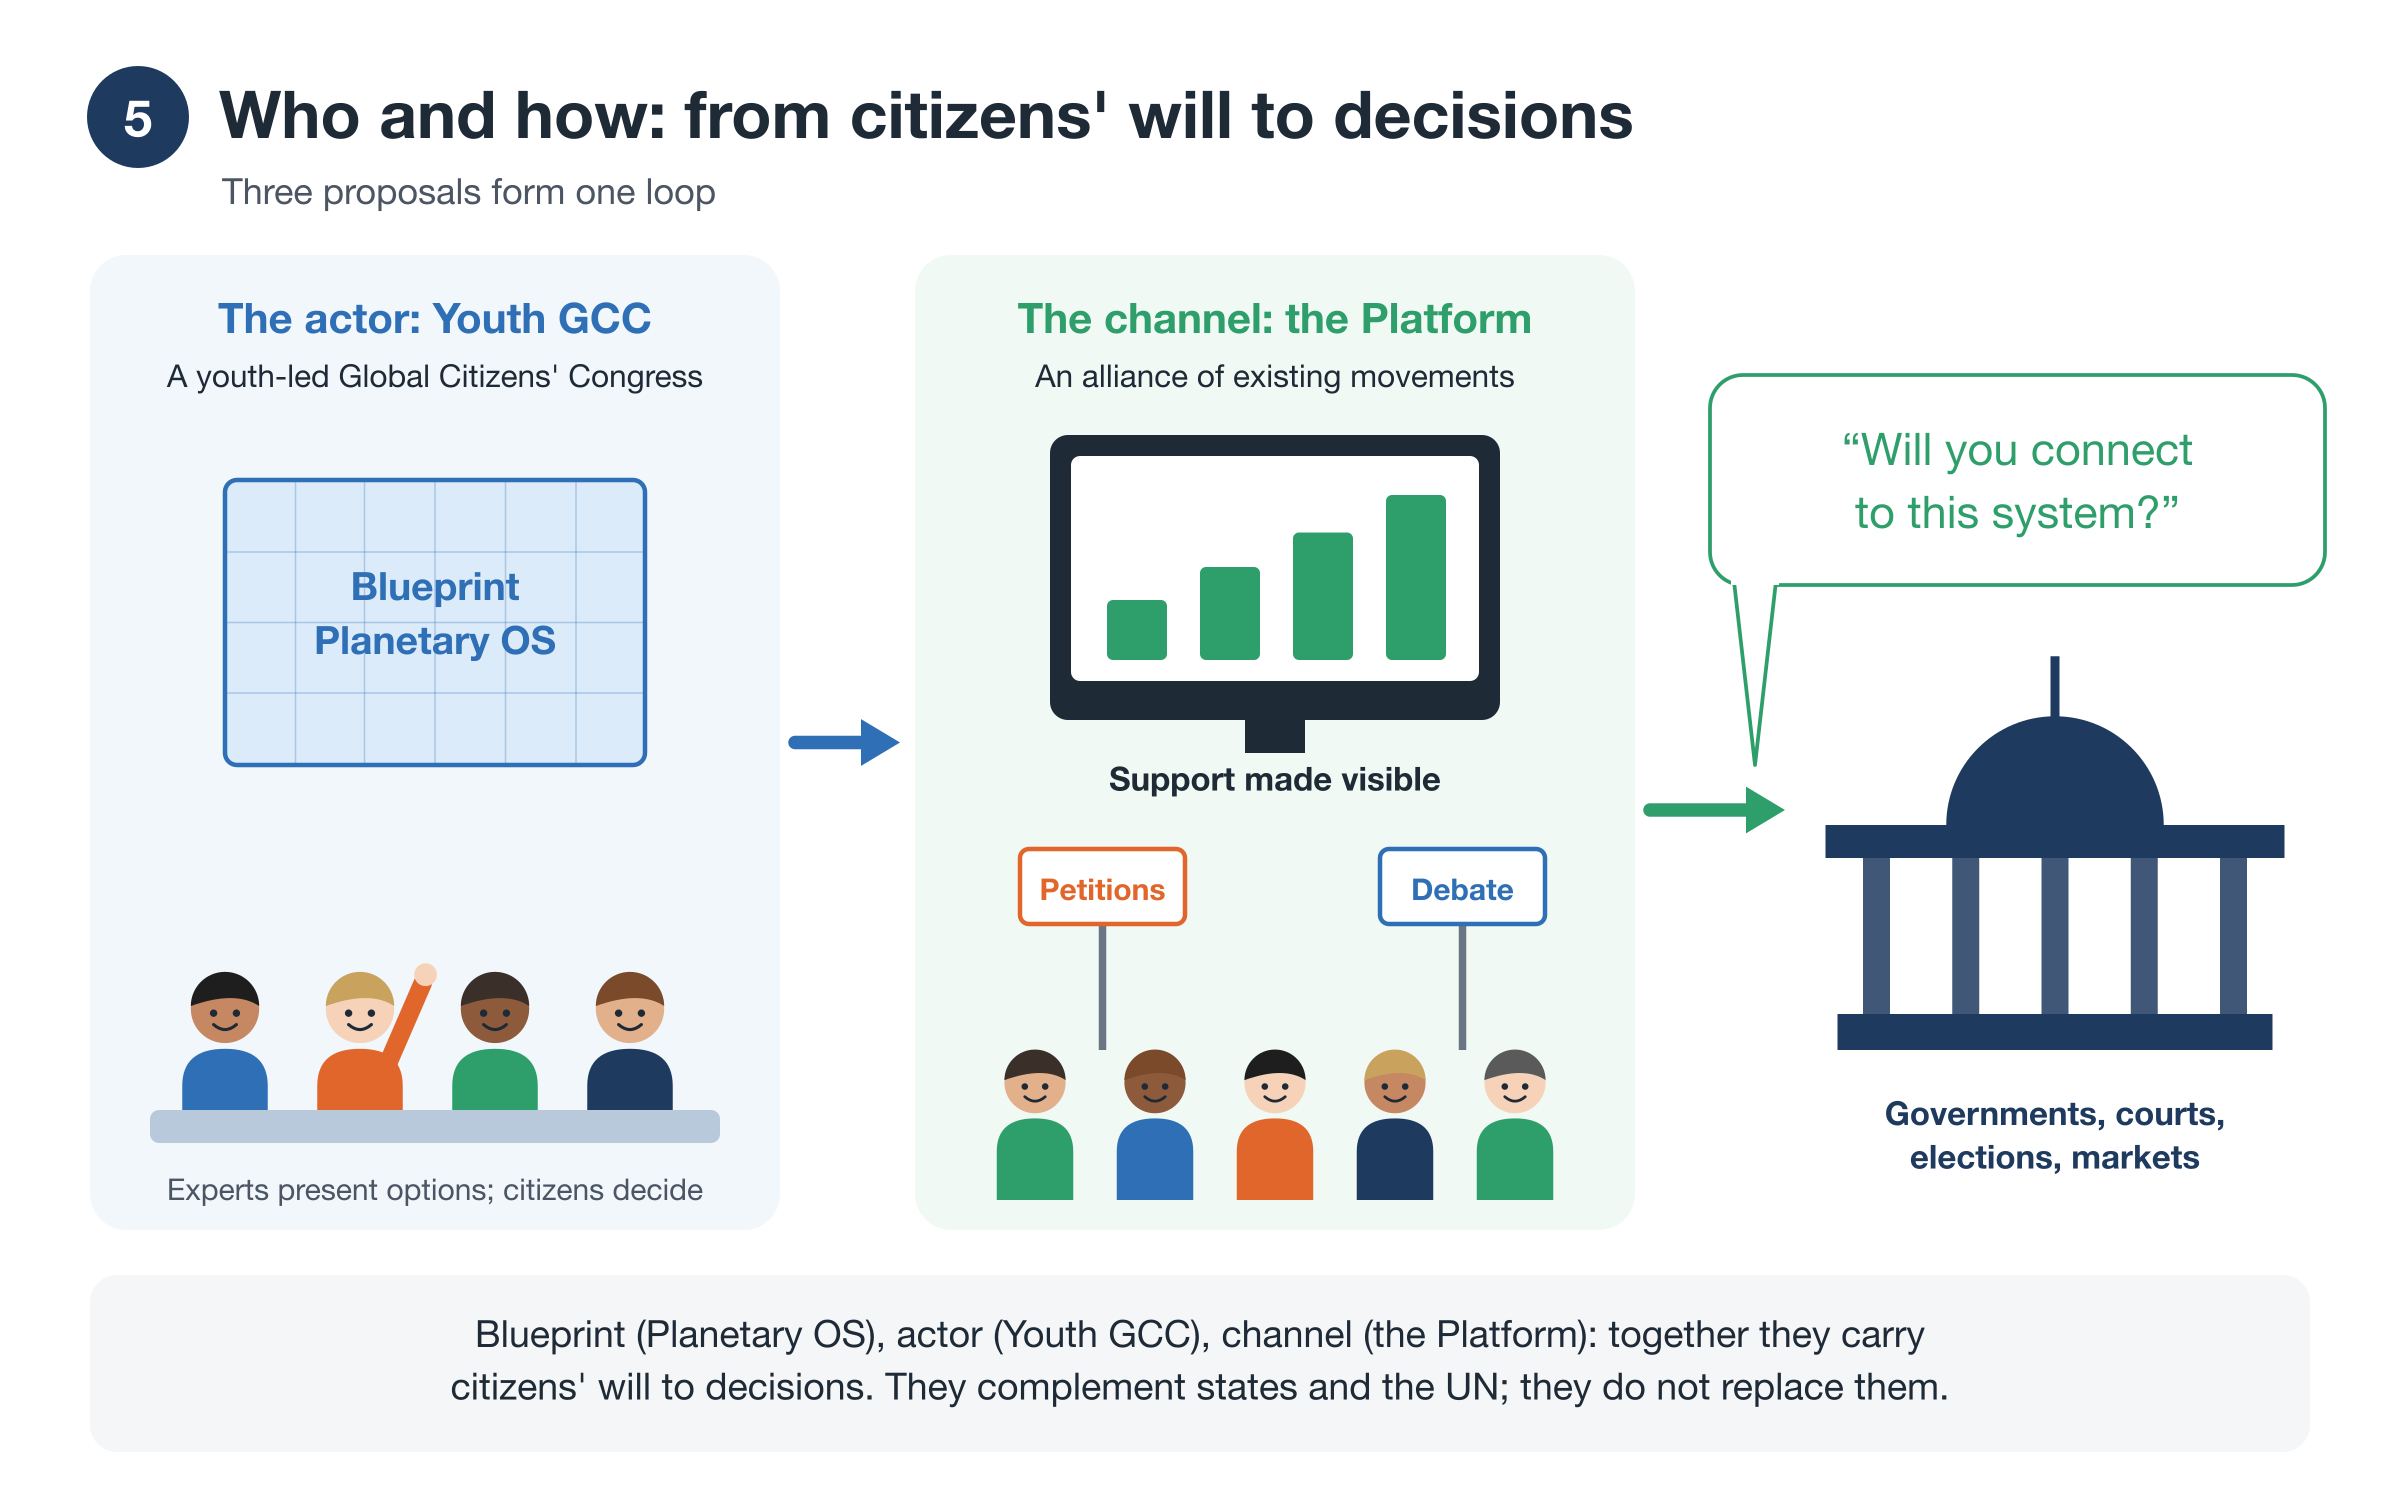
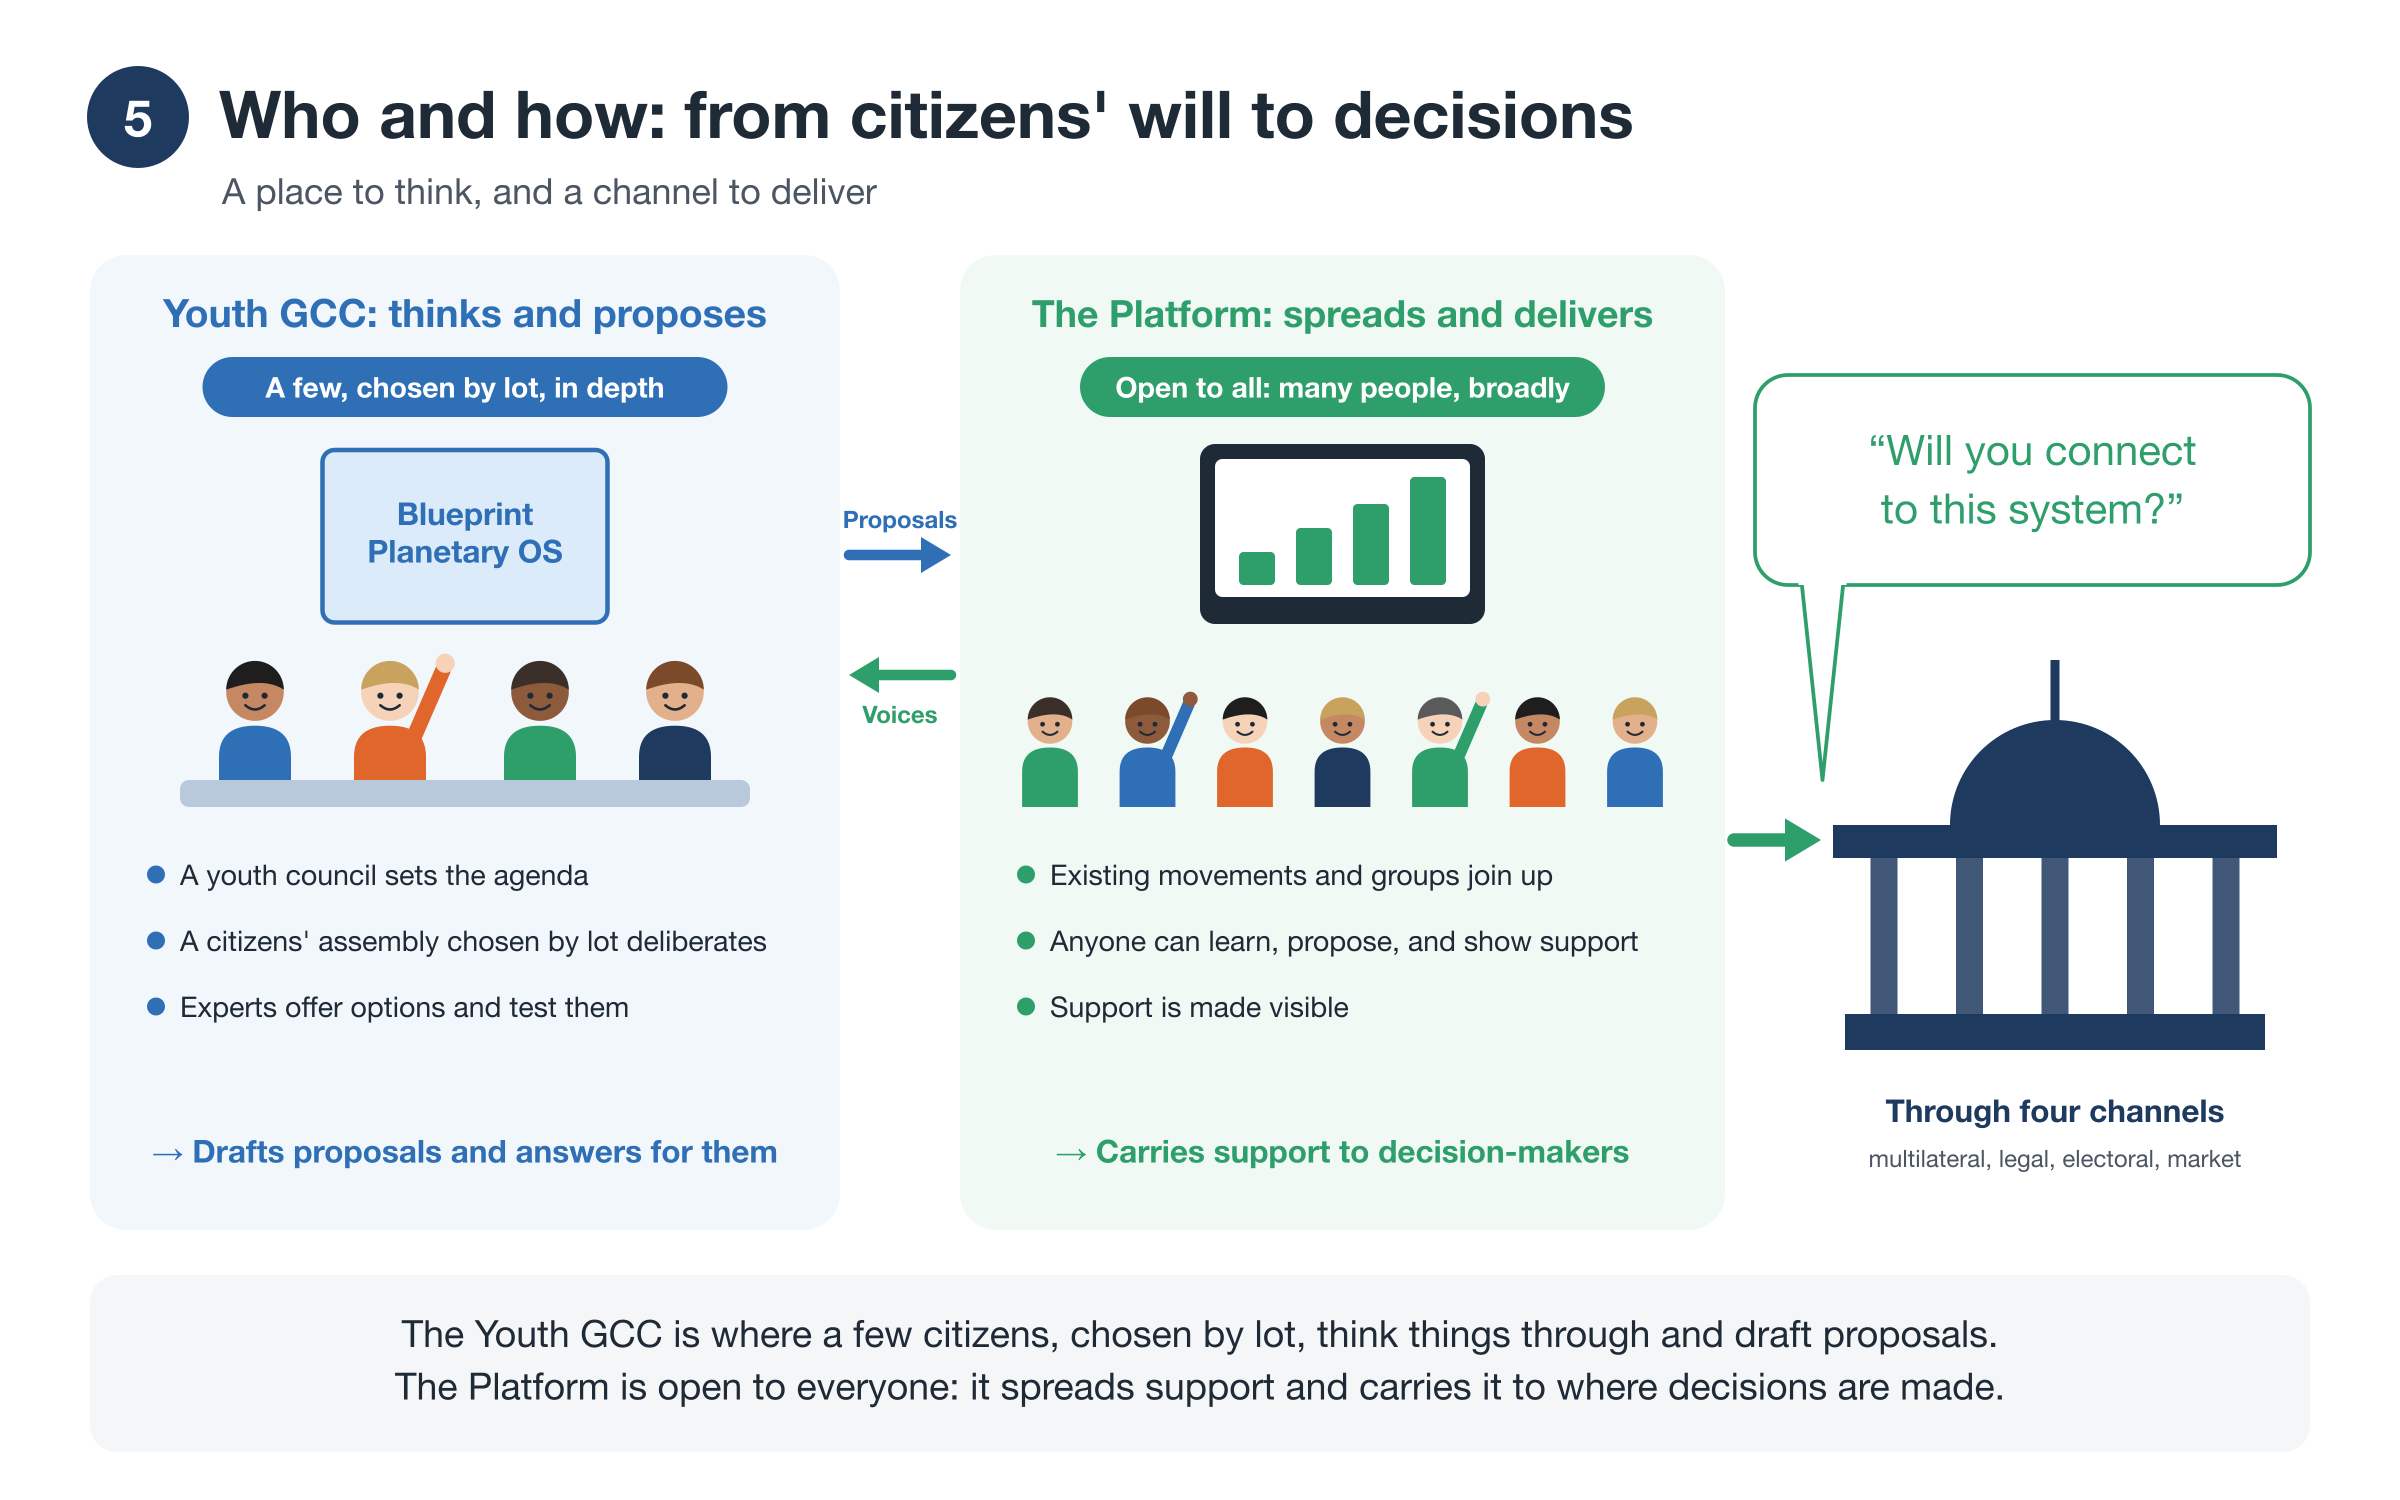
Clarify the roles of the Youth GCC and the Platform in picture 5
The picture and text now separate the two: the Youth GCC is the place to
think (a small group chosen by lot drafts proposals), the Platform is the
open channel that spreads support and delivers it to decision-makers.

diff --git a/docs/pictures.en.md b/docs/pictures.en.md
@@ -50,7 +50,12 @@ Loosening the rules takes two keys at once: scientific justification, and the ap
   <figcaption>Who and how: from citizens' will to decisions</figcaption>
 </figure>
 
-The Youth GCC carries the blueprint. The Global Citizen Will Platform makes support visible and brings it to governments, courts, elections, and markets with one question: "Will you connect to this system?"
+The two have different jobs.
+
+- **The Youth GCC is the place to think.** A small group of citizens, chosen by lot from all generations, deliberates in depth with experts' options in front of them and drafts proposals. Young people set the agenda, and the body answers for what it proposes.
+- **The Global Citizen Will Platform is the channel to deliver.** Anyone can take part, and existing movements join up while keeping their own names. It turns many people's support into something visible and carries it to governments, courts, elections, and markets with one question: "Will you connect to this system?"
+
+The two feed each other: the Youth GCC's proposals become the questions the platform gathers support on, and the voices and ideas gathered on the platform flow back into the Youth GCC's deliberation.
 
 ## 6. How it spreads: a club worth joining
 
